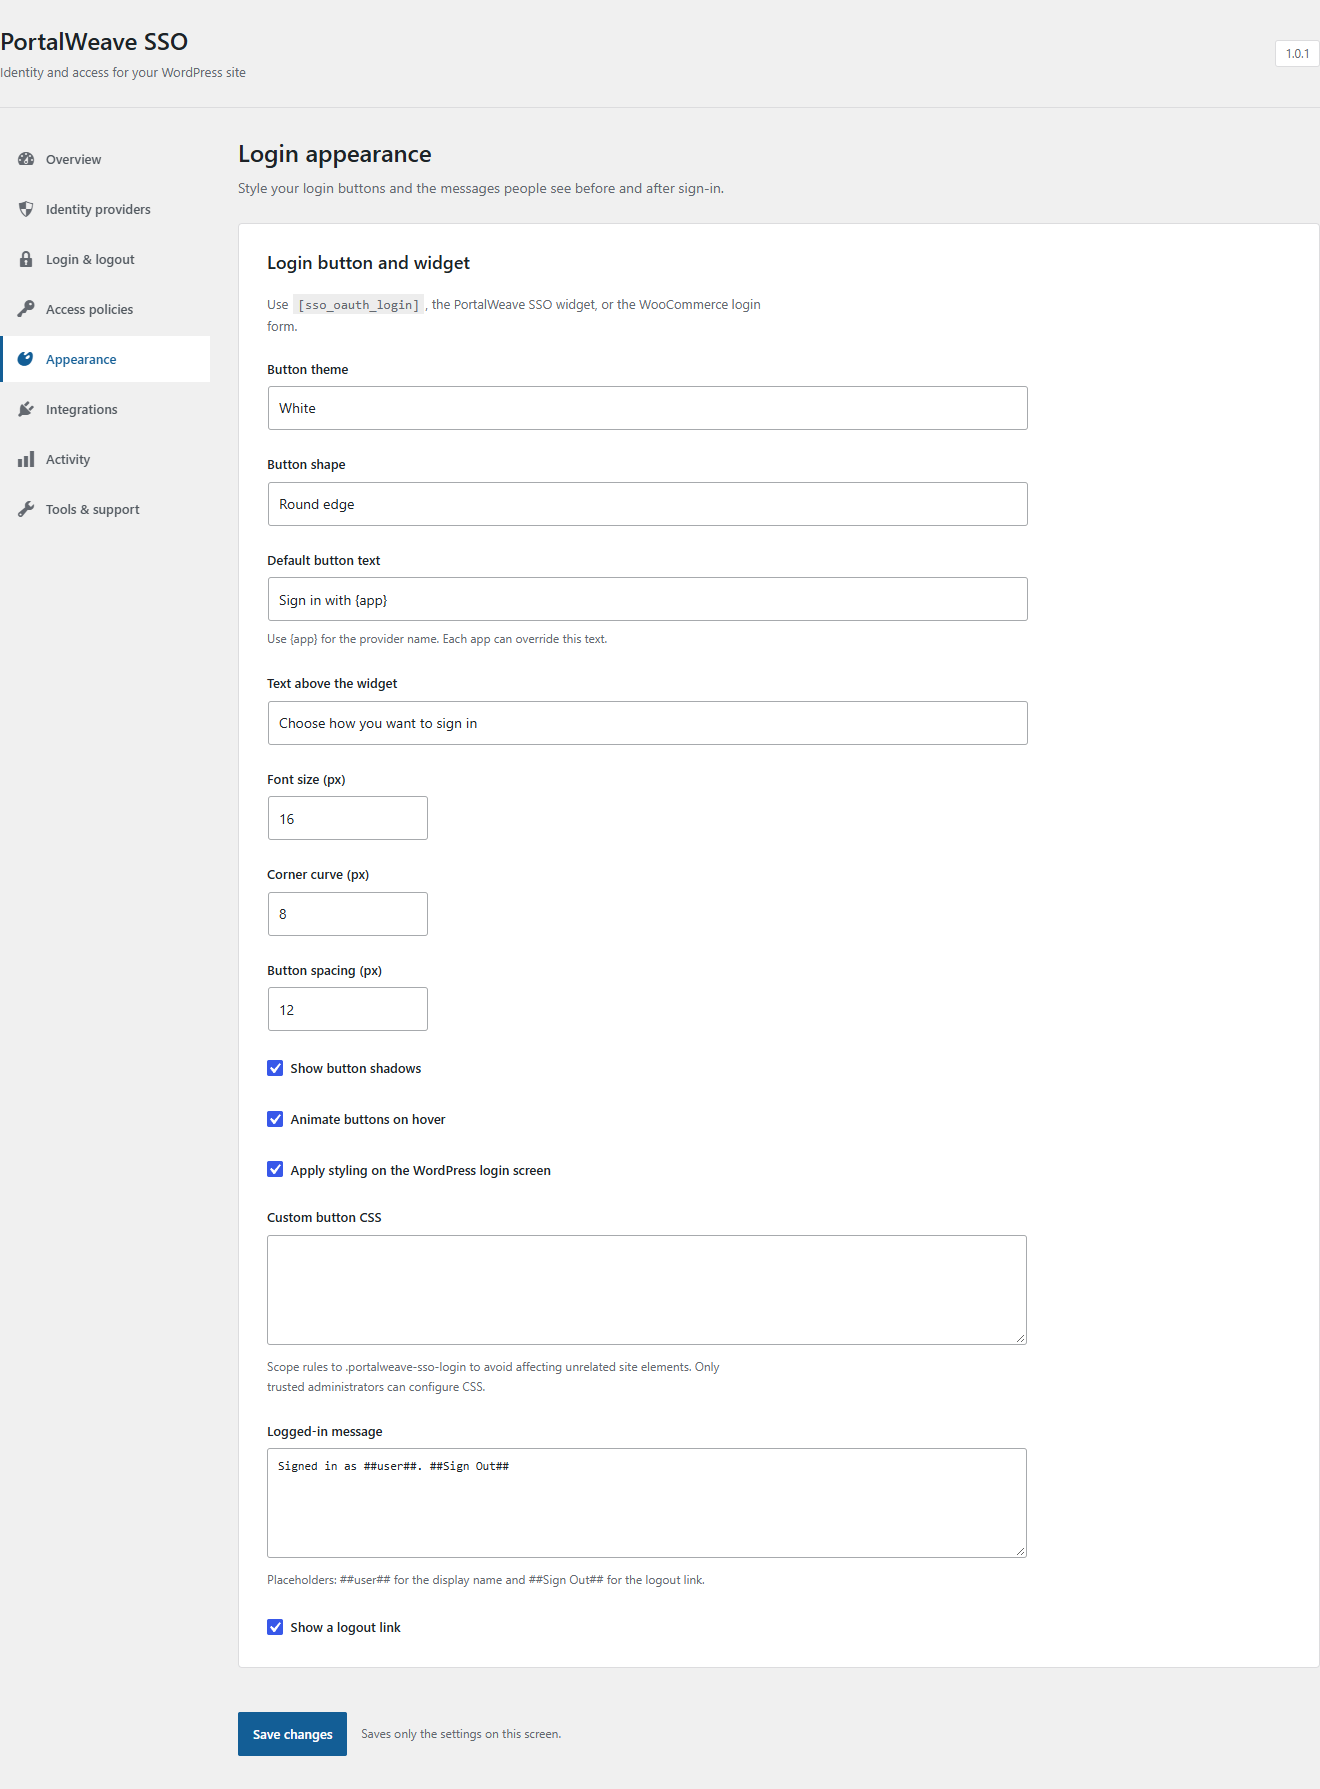
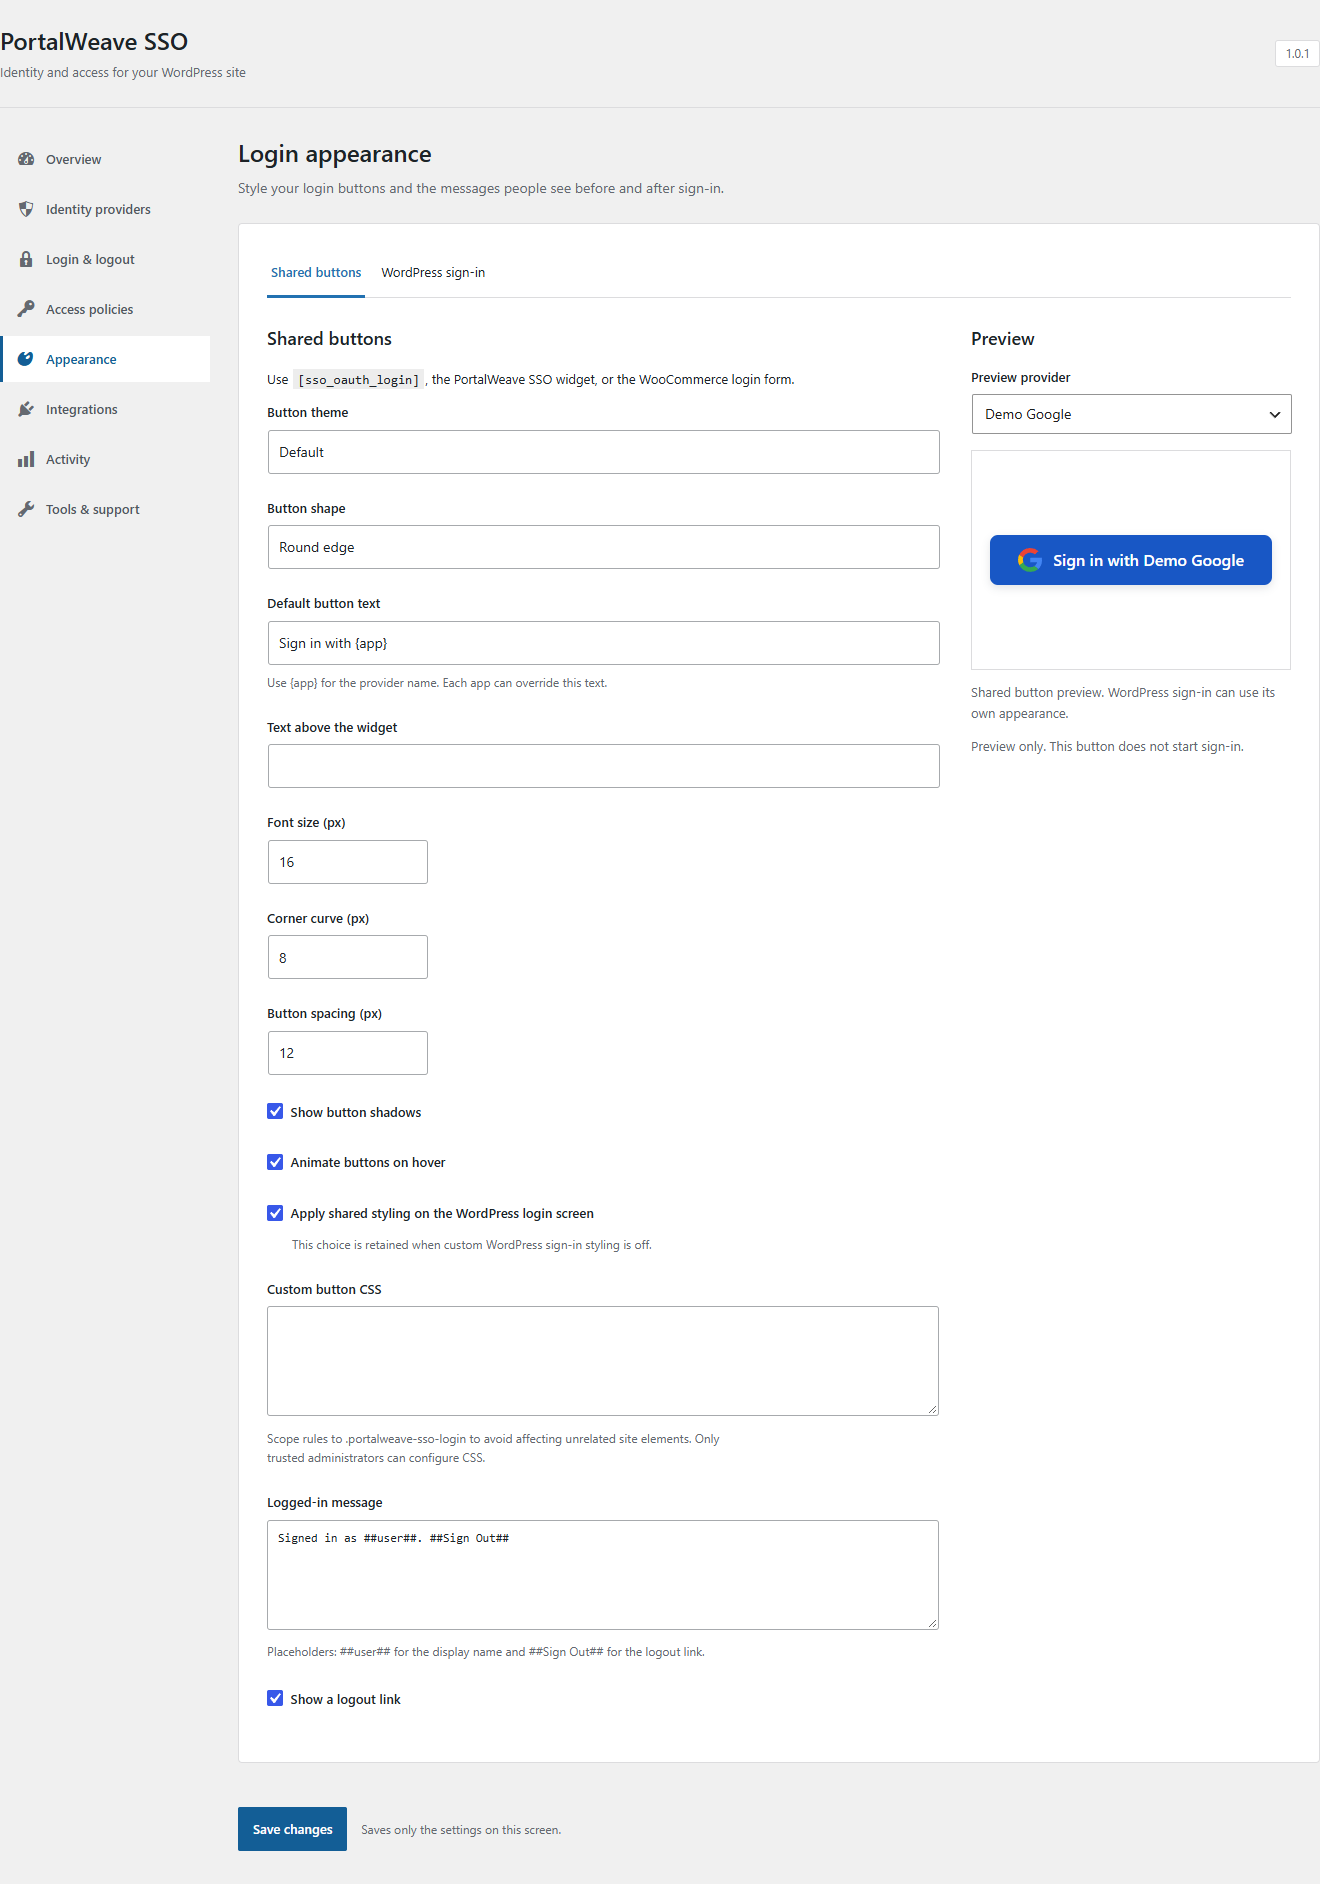
docs: show WordPress sign-in button customization

diff --git a/docs/admin-design.md b/docs/admin-design.md
@@ -69,6 +69,14 @@ Provider artwork is local static media. Its per-file sources, hashes and retaine
 
 The design work used the official [frontend-design skill](https://github.com/anthropics/skills/tree/main/skills/frontend-design) and [Playwright skill](https://github.com/openai/skills/tree/main/skills/.curated/playwright), with [WordPress menu guidance](https://developer.wordpress.org/plugins/administration-menus/) and [nonce guidance](https://developer.wordpress.org/apis/security/nonces/) informing integration with the host admin interface. Skills are development tools and are excluded from the plugin distribution.
 
+## WordPress sign-in appearance
+
+Appearance has Shared buttons and WordPress sign-in panels inside one scoped form. The separate flat `wp_login_button` settings map inherits the existing shared behavior until its `enabled` switch is set. Partial saves merge through `AdminSettings::prepare()` and preserve hidden values, providers, encrypted credentials and access policy. The allowlisted appearance section survives saving; real anchors leave every field reachable without JavaScript.
+
+The custom renderer activates only in the actual `wp-login.php` context. It shares authentication links with the existing renderer and changes presentation only. Structured controls validate color strings, integer dimensions, switches, icon choices and credential-free HTTPS image URLs before storage. The renderer validates again before emitting scoped CSS variables. Custom WordPress appearance omits shared arbitrary CSS and can style the page even when shared WordPress styling is disabled; turning customization off restores that earlier switch's behavior. Other shortcode, widget and WooCommerce contexts keep the shared appearance.
+
+The preview uses the production button stylesheet, selected provider names and image URLs, without credentials or real authentication links. Native media selection requires upload permission; a manual HTTPS URL remains available. Preset, media, image failure and remove actions have visible live feedback. Provider images resolve through the same fixed bundled-file map used by setup, with configured provider icons taking precedence and a generic bundled fallback. Images remain decorative beside a text label; custom image URL query data is removed by both configuration-redaction APIs. Remote preview/sign-in image requests are disclosed in the provider, service and privacy guides.
+
 ## Verification
 
 PHP regression checks cover screen isolation, active navigation, secret-free rendering, scoped writes, retained providers/credentials, checkbox false values, malformed/cross-screen inputs and real multisite credential preservation. Guided-setup regressions additionally cover every recipe's derived endpoints, issuer variants, conditional/public clients, exact secret bytes, creation-only scope and the actual administrative POST/redirect boundary. Activity regressions cover UTC boundaries, full-range totals, category/provider grouping, private-field exclusion, empty/error handling, view/range round trips and current-site multisite scope. Existing protocol and account tests remain applicable.

diff --git a/docs/external-services.md b/docs/external-services.md
@@ -18,7 +18,7 @@ The plugin has no developer telemetry, advertising service, license-check server
 | SSO logout | Where configured, the browser visits the provider's HTTPS end-session endpoint with the client ID, post-logout callback, random state and an ID-token hint when available. Signed OIDC back-channel logout is an incoming provider-to-WordPress request. |
 | Optional SCIM provisioning | An administrator's provisioning service makes authenticated HTTPS requests to this site's SCIM endpoint. User and group payloads can create/update local accounts and return provisioning information to that client. The plugin does not choose an external provisioning vendor or poll one. |
 | Optional shared-subdomain SSO | A short-lived signed cookie transfers selected mapped identity claims between explicitly trusted sites on the configured parent domain. It contains no OAuth access/refresh tokens. Participating sites can read its identity content; signing does not encrypt it. |
-| Optional custom provider icon or mapped profile picture | A visitor's browser requests the administrator-selected or provider-supplied HTTPS image URL when it is rendered. The image host receives the visitor's IP address and ordinary browser request information. Custom provider icons use `referrerpolicy="no-referrer"`; avatar requests follow the site's theme/browser policy. |
+| Optional custom provider icon, WordPress sign-in button icon or mapped profile picture | A visitor's browser requests the administrator-selected or provider-supplied HTTPS image URL when it is rendered. A custom sign-in icon can load when the login page opens, before an authentication attempt; its Appearance preview also loads the selected image in the administrator's browser. The image host receives the visitor's IP address and ordinary browser request information. Sign-in button icons use `referrerpolicy="no-referrer"`; avatar requests follow the site's theme/browser policy. Bundled provider logos are served locally by the plugin. |
 | An administrator submits support information | WordPress's configured mail service sends the message to the administrator-selected recipient. Configuration is attached only when requested in the form; the support ability prepares redacted configuration and sends only with an explicit `send=true` request. No support recipient is configured automatically. |
 
 Outbound token, profile, group and JWKS requests use the WordPress HTTP API, HTTPS certificate verification and bounded responses. Authorization, logout, image and final allowed navigation URLs are browser requests. Administrators must verify every configured host; templates are starting points and can be edited.

diff --git a/docs/privacy.md b/docs/privacy.md
@@ -16,7 +16,7 @@ This document describes the bundled plugin's behavior so a site administrator ca
 | Support drafts and mail | The support ability stores a locally prepared subject, message and redacted configuration in a transient for 24 hours, including when mail sending fails. Explicit support submission sends through WordPress's configured mail service to the administrator's configured recipient. Any copies in mailboxes, delivery logs or backups have separate retention. |
 | Protected media | Media protection moves selected original files and derivatives to a private vault outside the web document root. Attachment metadata records private and original/public paths needed for authenticated delivery and recovery. Protecting a file does not erase copies already held by a CDN, browser, web-server cache or backup. |
 
-The plugin sends no usage analytics or telemetry to its developer. Authentication/profile/key requests go to configured identity endpoints. Optional images are fetched by the browser, optional support uses the configured mail service, and enabled MCP abilities return data to the authenticated client through the separately installed adapter. The complete destination and trigger inventory is in [external services](external-services.md).
+The plugin sends no usage analytics or telemetry to its developer. Authentication/profile/key requests go to configured identity endpoints. Optional images, including a custom WordPress sign-in button icon, are fetched by the browser; a remote icon host receives the visitor's normal network information when the page is displayed. Bundled provider logos are served from this plugin installation. Optional support uses the configured mail service, and enabled MCP abilities return data to the authenticated client through the separately installed adapter. The complete destination and trigger inventory is in [external services](external-services.md).
 
 **Test connection** in guided setup and **Test SSO Config** for saved providers display the raw returned attribute set to the initiating authenticated administrator. Review it privately. An unsaved connection test keeps an encrypted snapshot of the entered provider details, including credentials, in its ten-minute OAuth flow, bound to that administrator's session and site/network scope. It does not save a provider, create an account or store returned tokens in user metadata. Consuming the flow deletes the snapshot; expired flows cannot be used and are removed by hourly cleanup. A screenshot, copied result, CSV download, WordPress personal-data export or support message can create another copy of personal data outside the plugin's retention controls.
 

diff --git a/docs/provider-setup.md b/docs/provider-setup.md
@@ -110,6 +110,12 @@ Domain allow/block policy uses exact lower-case domains. Domain mapping is an op
 
 Insert `[sso_oauth_login]` or add the **PortalWeave SSO login** widget. WooCommerce's login form gets enabled-provider buttons. Customize global theme, shape, size, curve, spacing, shadow, and hover treatment. Each app can set text and an HTTPS icon URL. `##user##` and `##Sign Out##` are available in the logged-in message. Button assets load for the relevant login/widget/shortcode/account contexts; normal pages without those displays do not need them.
 
+Open **Appearance → WordPress sign-in** to give the SSO buttons on `wp-login.php` their own appearance. Enable customization, then adjust text, normal and hover colors, borders, corners, font size, padding, width and shadows. The live preview follows the selected provider. Presets provide a starting point; save changes to apply your choices. The shared appearance remains in use until customization is enabled.
+
+Choose provider icons, a custom HTTPS image or no icon, then set the icon size and position. Provider icons use each provider's configured custom image first, its bundled service logo next, and the bundled generic icon otherwise. The media chooser is available to administrators with upload permission; a direct HTTPS image URL also works. Keep the visible button label meaningful. Custom WordPress text expands `{app}` and overrides that page's provider label; leaving it blank keeps the existing provider-specific text or shared template. Website shortcodes, widgets and WooCommerce keep the shared appearance. Turning customization off restores the shared WordPress styling choice, including its existing styling-off setting.
+
+Remote icon images are loaded by the visitor's browser when the sign-in page is displayed. Prefer an image hosted on your own site, and disclose any external image host in your site's privacy notice. Icons are decorative; they do not replace the button's text label.
+
 ## Content restrictions and media
 
 On multisite, network enforcement overrides site configuration only within the current network; other networks retain their own settings. Configure site-local post, category and attachment rules through their individual editors. Network settings do not accept those site-local content IDs. Provider identities, groups and tokens are site-scoped even though WordPress users and sessions can be global; see the [multisite integration boundaries](integrations.md#scim-20-inbound-provisioning) before provisioning shared accounts.

diff --git a/README.md b/README.md
@@ -66,13 +66,17 @@ Use a shortcode or widget to place provider buttons on a member page.
 <details>
 <summary>WordPress login and appearance settings</summary>
 
-Provider buttons also appear on the WordPress login form.
+Provider buttons also appear on the WordPress login form, with their own optional styling.
 
 <img src="docs/screenshots/wordpress-login.png" alt="WordPress login form with provider sign-in buttons" width="400">
 
 Adjust button themes, shapes, labels and spacing in Appearance.
 
 ![Login button themes, shapes, labels and spacing settings](docs/screenshots/appearance.png)
+
+Use **Appearance → WordPress sign-in** to customize colors, hover states, text, size and corners with a live preview. Choose provider logos, a custom image from your media library, or no icon.
+
+![WordPress sign-in button appearance controls with colors, sizing, icon choices and a live preview](docs/screenshots/wordpress-button-style.png)
 
 Choose a default provider, popup behavior and post-login destinations.
 
